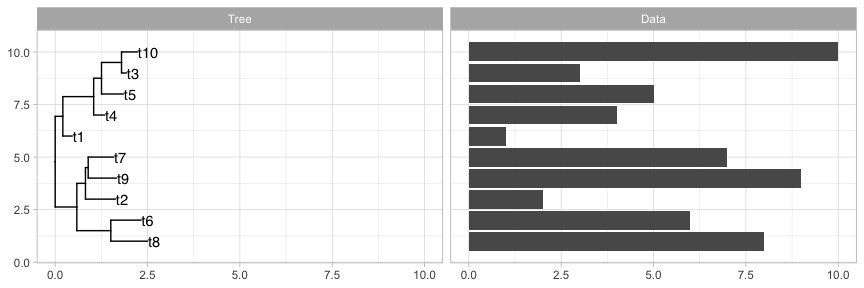
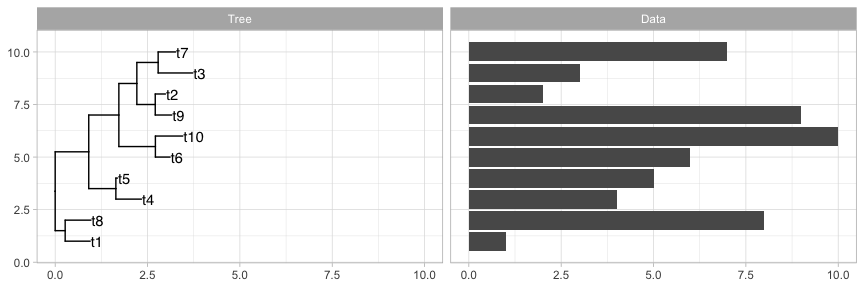
small update to ggtree notes

diff --git a/Rscripts/phylogenetics/ggtree_demo.md b/Rscripts/phylogenetics/ggtree_demo.md
@@ -2,7 +2,7 @@ ggtree_demo
 ================
 Janet Young
 
-2025-12-02
+2025-12-08
 
 The rendered version of this Rmd script is
 [here](https://github.com/jayoung/Rtest_and_Rnotes/blob/main/Rscripts/phylogenetics/ggtree_demo.md).
@@ -88,19 +88,19 @@ nwk_tree_tip_dat
     ## # A tibble: 13 × 4
     ##    taxon fake_height fake_phenotype fake_phenotype2
     ##    <chr>       <dbl> <chr>          <chr>          
-    ##  1 A            80.6 teeth          scales         
-    ##  2 B           137.  teeth          scales         
-    ##  3 C            56.7 teeth          scales         
-    ##  4 D            95.4 tail           fur            
-    ##  5 E            54.3 teeth          fur            
-    ##  6 F           141.  tail           spikes         
-    ##  7 G            80.4 tail           scales         
-    ##  8 H           104.  teeth          scales         
-    ##  9 I           105.  nose           scales         
-    ## 10 J            41.4 nose           scales         
-    ## 11 K           116.  teeth          fur            
-    ## 12 L           118.  teeth          spikes         
-    ## 13 M           111.  tail           spikes
+    ##  1 A           128.  teeth          spikes         
+    ##  2 B            83.2 nose           scales         
+    ##  3 C           159.  teeth          spikes         
+    ##  4 D           107.  teeth          fur            
+    ##  5 E           104.  nose           scales         
+    ##  6 F            82.1 tail           scales         
+    ##  7 G            69.6 tail           spikes         
+    ##  8 H           132.  teeth          fur            
+    ##  9 I           148.  teeth          scales         
+    ## 10 J            92.1 teeth          fur            
+    ## 11 K            88.8 tail           scales         
+    ## 12 L           106.  tail           scales         
+    ## 13 M            66.5 tail           fur
 
 ## Combine tree and tbl
 
@@ -126,7 +126,8 @@ ALTERNATIVE - I wrote a function to do these checks, called
 `addInfoToTree` - it’s in the [`phylogenetic_tree_functions.R`
 file](https://github.com/jayoung/Rtest_and_Rnotes/blob/main/useful_functions/phylogenetic_tree_functions.R)
 
-If you want to UPDATE the info later, see below…. xxxx
+If you want to UPDATE the info later, see
+[below](https://github.com/jayoung/Rtest_and_Rnotes/blob/main/Rscripts/phylogenetics/ggtree_demo.md#turning-a-tibble-back-into-a-tree)
 
 Demo using left_join:
 
@@ -161,16 +162,16 @@ nwk_tree_with_info
     ## # The 'node', 'label' and 'isTip' are from the phylo tree.
     ##     node label isTip fake_height fake_phenotype fake_phenotype2
     ##    <int> <chr> <lgl>       <dbl> <chr>          <chr>          
-    ##  1     1 A     TRUE         80.6 teeth          scales         
-    ##  2     2 B     TRUE        137.  teeth          scales         
-    ##  3     3 C     TRUE         56.7 teeth          scales         
-    ##  4     4 D     TRUE         95.4 tail           fur            
-    ##  5     5 E     TRUE         54.3 teeth          fur            
-    ##  6     6 F     TRUE        141.  tail           spikes         
-    ##  7     7 G     TRUE         80.4 tail           scales         
-    ##  8     8 H     TRUE        104.  teeth          scales         
-    ##  9     9 I     TRUE        105.  nose           scales         
-    ## 10    10 J     TRUE         41.4 nose           scales         
+    ##  1     1 A     TRUE        128.  teeth          spikes         
+    ##  2     2 B     TRUE         83.2 nose           scales         
+    ##  3     3 C     TRUE        159.  teeth          spikes         
+    ##  4     4 D     TRUE        107.  teeth          fur            
+    ##  5     5 E     TRUE        104.  nose           scales         
+    ##  6     6 F     TRUE         82.1 tail           scales         
+    ##  7     7 G     TRUE         69.6 tail           spikes         
+    ##  8     8 H     TRUE        132.  teeth          fur            
+    ##  9     9 I     TRUE        148.  teeth          scales         
+    ## 10    10 J     TRUE         92.1 teeth          fur            
     ## # ℹ 15 more rows
 
 Demo using `addInfoToTree` (by default it looks for the tip labels in
@@ -212,16 +213,16 @@ nwk_tree_with_info_2
     ## # The 'node', 'label' and 'isTip' are from the phylo tree.
     ##     node label isTip fake_height fake_phenotype fake_phenotype2
     ##    <int> <chr> <lgl>       <dbl> <chr>          <chr>          
-    ##  1     1 A     TRUE         80.6 teeth          scales         
-    ##  2     2 B     TRUE        137.  teeth          scales         
-    ##  3     3 C     TRUE         56.7 teeth          scales         
-    ##  4     4 D     TRUE         95.4 tail           fur            
-    ##  5     5 E     TRUE         54.3 teeth          fur            
-    ##  6     6 F     TRUE        141.  tail           spikes         
-    ##  7     7 G     TRUE         80.4 tail           scales         
-    ##  8     8 H     TRUE        104.  teeth          scales         
-    ##  9     9 I     TRUE        105.  nose           scales         
-    ## 10    10 J     TRUE         41.4 nose           scales         
+    ##  1     1 A     TRUE        128.  teeth          spikes         
+    ##  2     2 B     TRUE         83.2 nose           scales         
+    ##  3     3 C     TRUE        159.  teeth          spikes         
+    ##  4     4 D     TRUE        107.  teeth          fur            
+    ##  5     5 E     TRUE        104.  nose           scales         
+    ##  6     6 F     TRUE         82.1 tail           scales         
+    ##  7     7 G     TRUE         69.6 tail           spikes         
+    ##  8     8 H     TRUE        132.  teeth          fur            
+    ##  9     9 I     TRUE        148.  teeth          scales         
+    ## 10    10 J     TRUE         92.1 teeth          fur            
     ## # ℹ 15 more rows
 
 ## Manipulating info tibble in treedata objects
@@ -263,16 +264,16 @@ as_tibble(nwk_tree_with_info_2)
     ## # via as.treedata or as.phylo
     ##    parent  node branch.length label fake_height fake_phenotype fake_phenotype2
     ##     <int> <int>         <dbl> <chr>       <dbl> <chr>          <chr>          
-    ##  1     20     1             4 A            80.6 teeth          scales         
-    ##  2     20     2             4 B           137.  teeth          scales         
-    ##  3     19     3             5 C            56.7 teeth          scales         
-    ##  4     18     4             6 D            95.4 tail           fur            
-    ##  5     17     5            21 E            54.3 teeth          fur            
-    ##  6     22     6             4 F           141.  tail           spikes         
-    ##  7     22     7            12 G            80.4 tail           scales         
-    ##  8     21     8             8 H           104.  teeth          scales         
-    ##  9     24     9             5 I           105.  nose           scales         
-    ## 10     24    10             2 J            41.4 nose           scales         
+    ##  1     20     1             4 A           128.  teeth          spikes         
+    ##  2     20     2             4 B            83.2 nose           scales         
+    ##  3     19     3             5 C           159.  teeth          spikes         
+    ##  4     18     4             6 D           107.  teeth          fur            
+    ##  5     17     5            21 E           104.  nose           scales         
+    ##  6     22     6             4 F            82.1 tail           scales         
+    ##  7     22     7            12 G            69.6 tail           spikes         
+    ##  8     21     8             8 H           132.  teeth          fur            
+    ##  9     24     9             5 I           148.  teeth          scales         
+    ## 10     24    10             2 J            92.1 teeth          fur            
     ## # ℹ 15 more rows
 
 We can also directly access extraInfo, but that doesn’t contain a column
@@ -286,16 +287,16 @@ nwk_tree_with_info_2@extraInfo
     ## # A tibble: 25 × 4
     ##     node fake_height fake_phenotype fake_phenotype2
     ##    <int>       <dbl> <chr>          <chr>          
-    ##  1     1        80.6 teeth          scales         
-    ##  2     2       137.  teeth          scales         
-    ##  3     3        56.7 teeth          scales         
-    ##  4     4        95.4 tail           fur            
-    ##  5     5        54.3 teeth          fur            
-    ##  6     6       141.  tail           spikes         
-    ##  7     7        80.4 tail           scales         
-    ##  8     8       104.  teeth          scales         
-    ##  9     9       105.  nose           scales         
-    ## 10    10        41.4 nose           scales         
+    ##  1     1       128.  teeth          spikes         
+    ##  2     2        83.2 nose           scales         
+    ##  3     3       159.  teeth          spikes         
+    ##  4     4       107.  teeth          fur            
+    ##  5     5       104.  nose           scales         
+    ##  6     6        82.1 tail           scales         
+    ##  7     7        69.6 tail           spikes         
+    ##  8     8       132.  teeth          fur            
+    ##  9     9       148.  teeth          scales         
+    ## 10    10        92.1 teeth          fur            
     ## # ℹ 15 more rows
 
 ## Plot tree with annotations
@@ -596,7 +597,7 @@ ggtree(tr) +
 
 ![](ggtree_demo_files/figure-gfm/unnamed-chunk-25-1.png)<!-- -->
 
-## Turning a tibble back into a tree
+# Turning a tibble back into a tree
 
 Sometimes we take a tree, use `as_tibble()` (it becomes a `tbl_tree`
 object), do a bunch of manipulation (maybe it becomes a classic `tibble`
